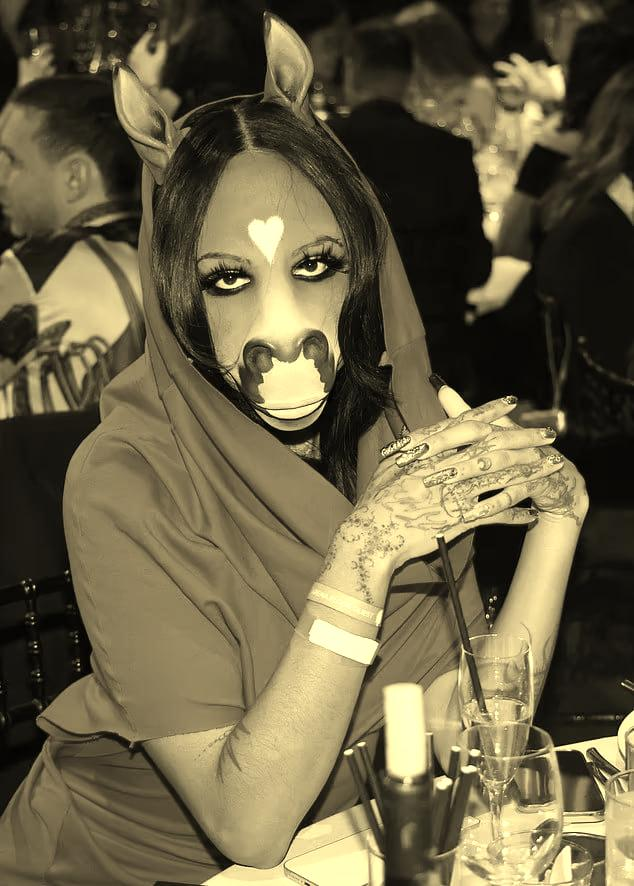
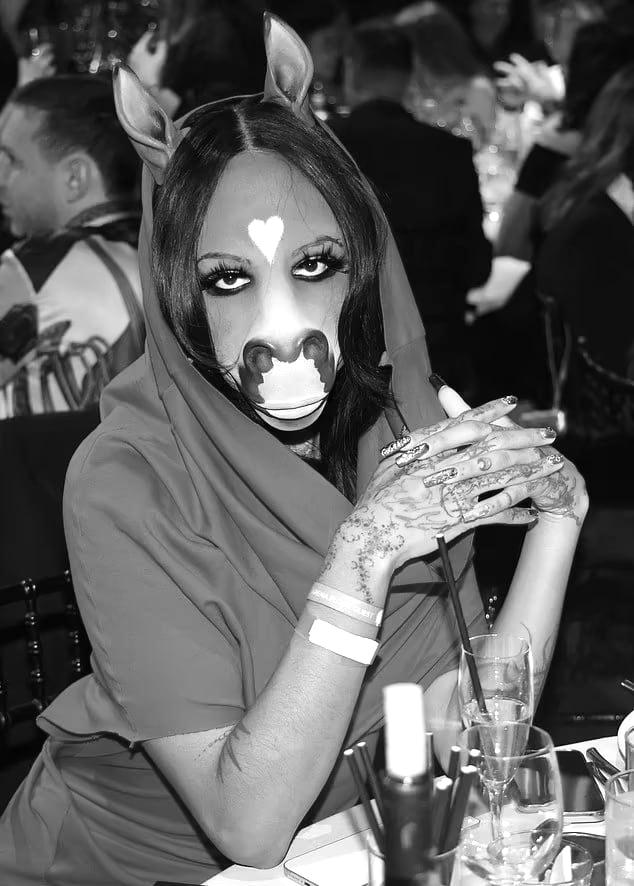
lab02

diff --git a/lab01/lab01.py b/lab01/lab01.py
@@ -67,7 +67,7 @@ class ImageRemaker:
 
         return new_image
         #сепия
-    def sepia(self):
+    def sepia(self, first, second, third):
         # вновь скопируем изображение
         new_image = self.image.copy()
         pixels = new_image.load() 
@@ -78,9 +78,9 @@ class ImageRemaker:
                 r, g, b = pixels[w, h]
                 #Сепия - это теплый коричневатый оттенок, поэтому мы берем такие коэф., чтобы преобладали 
                 #красный и зеленый, после "смешиваем" их
-                r1 = 0.4 * r + 0.75 * g + 0.15 * b
-                g2 = 0.35 * r + 0.7 * g + 0.15 * b
-                b3 = 0.25 * r + 0.5 * g + 0.1 * b
+                r1 = first * r + second * g + third * b
+                g2 = first * r + second * g + third * b
+                b3 = first * r + second * g + third * b
                 # проверка чтоб не убежали за максимальное насыщение (255)
                 r1 = min(int(r1), 255)
                 g2 = min(int(g2), 255)

diff --git a/main.py b/main.py
@@ -14,7 +14,7 @@ if __name__ == "__main__":
     img2 = remaker.add_noise(intns=120)
     remaker.save_image(img2, "noisy.jpg")
 
-    img3 = remaker.sepia()
+    img3 = remaker.sepia(first = 0.35, second = 0.7, third = 0.15)
     remaker.save_image(img3, "sepia.jpg")
 
     img4 = remaker.monotone(area_size=9)
